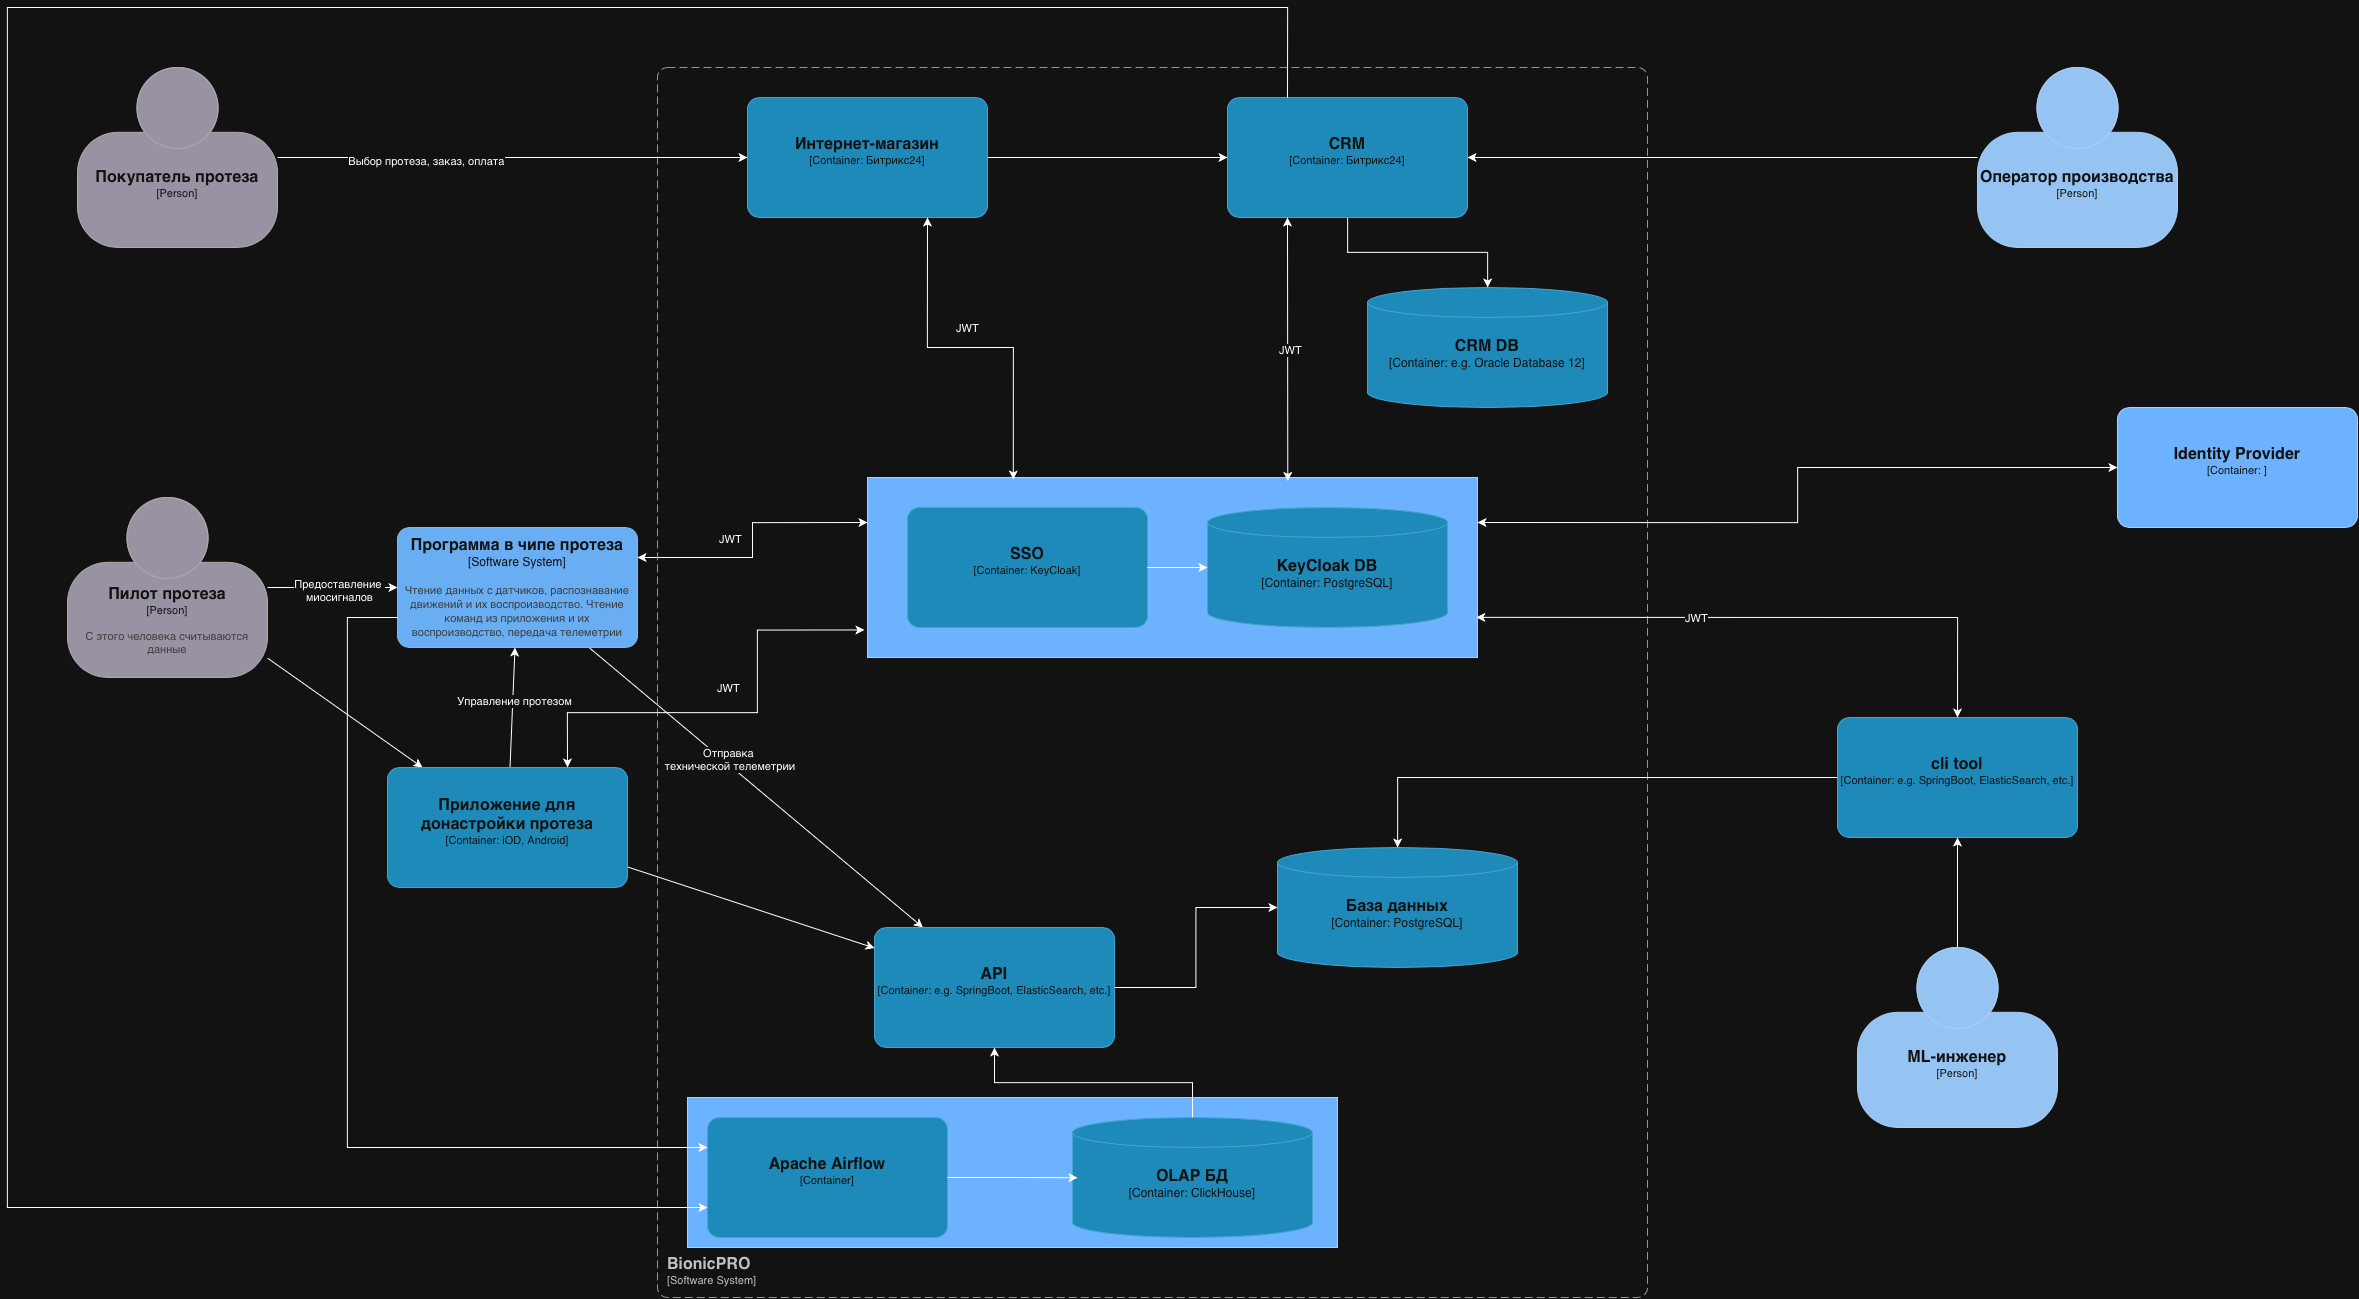
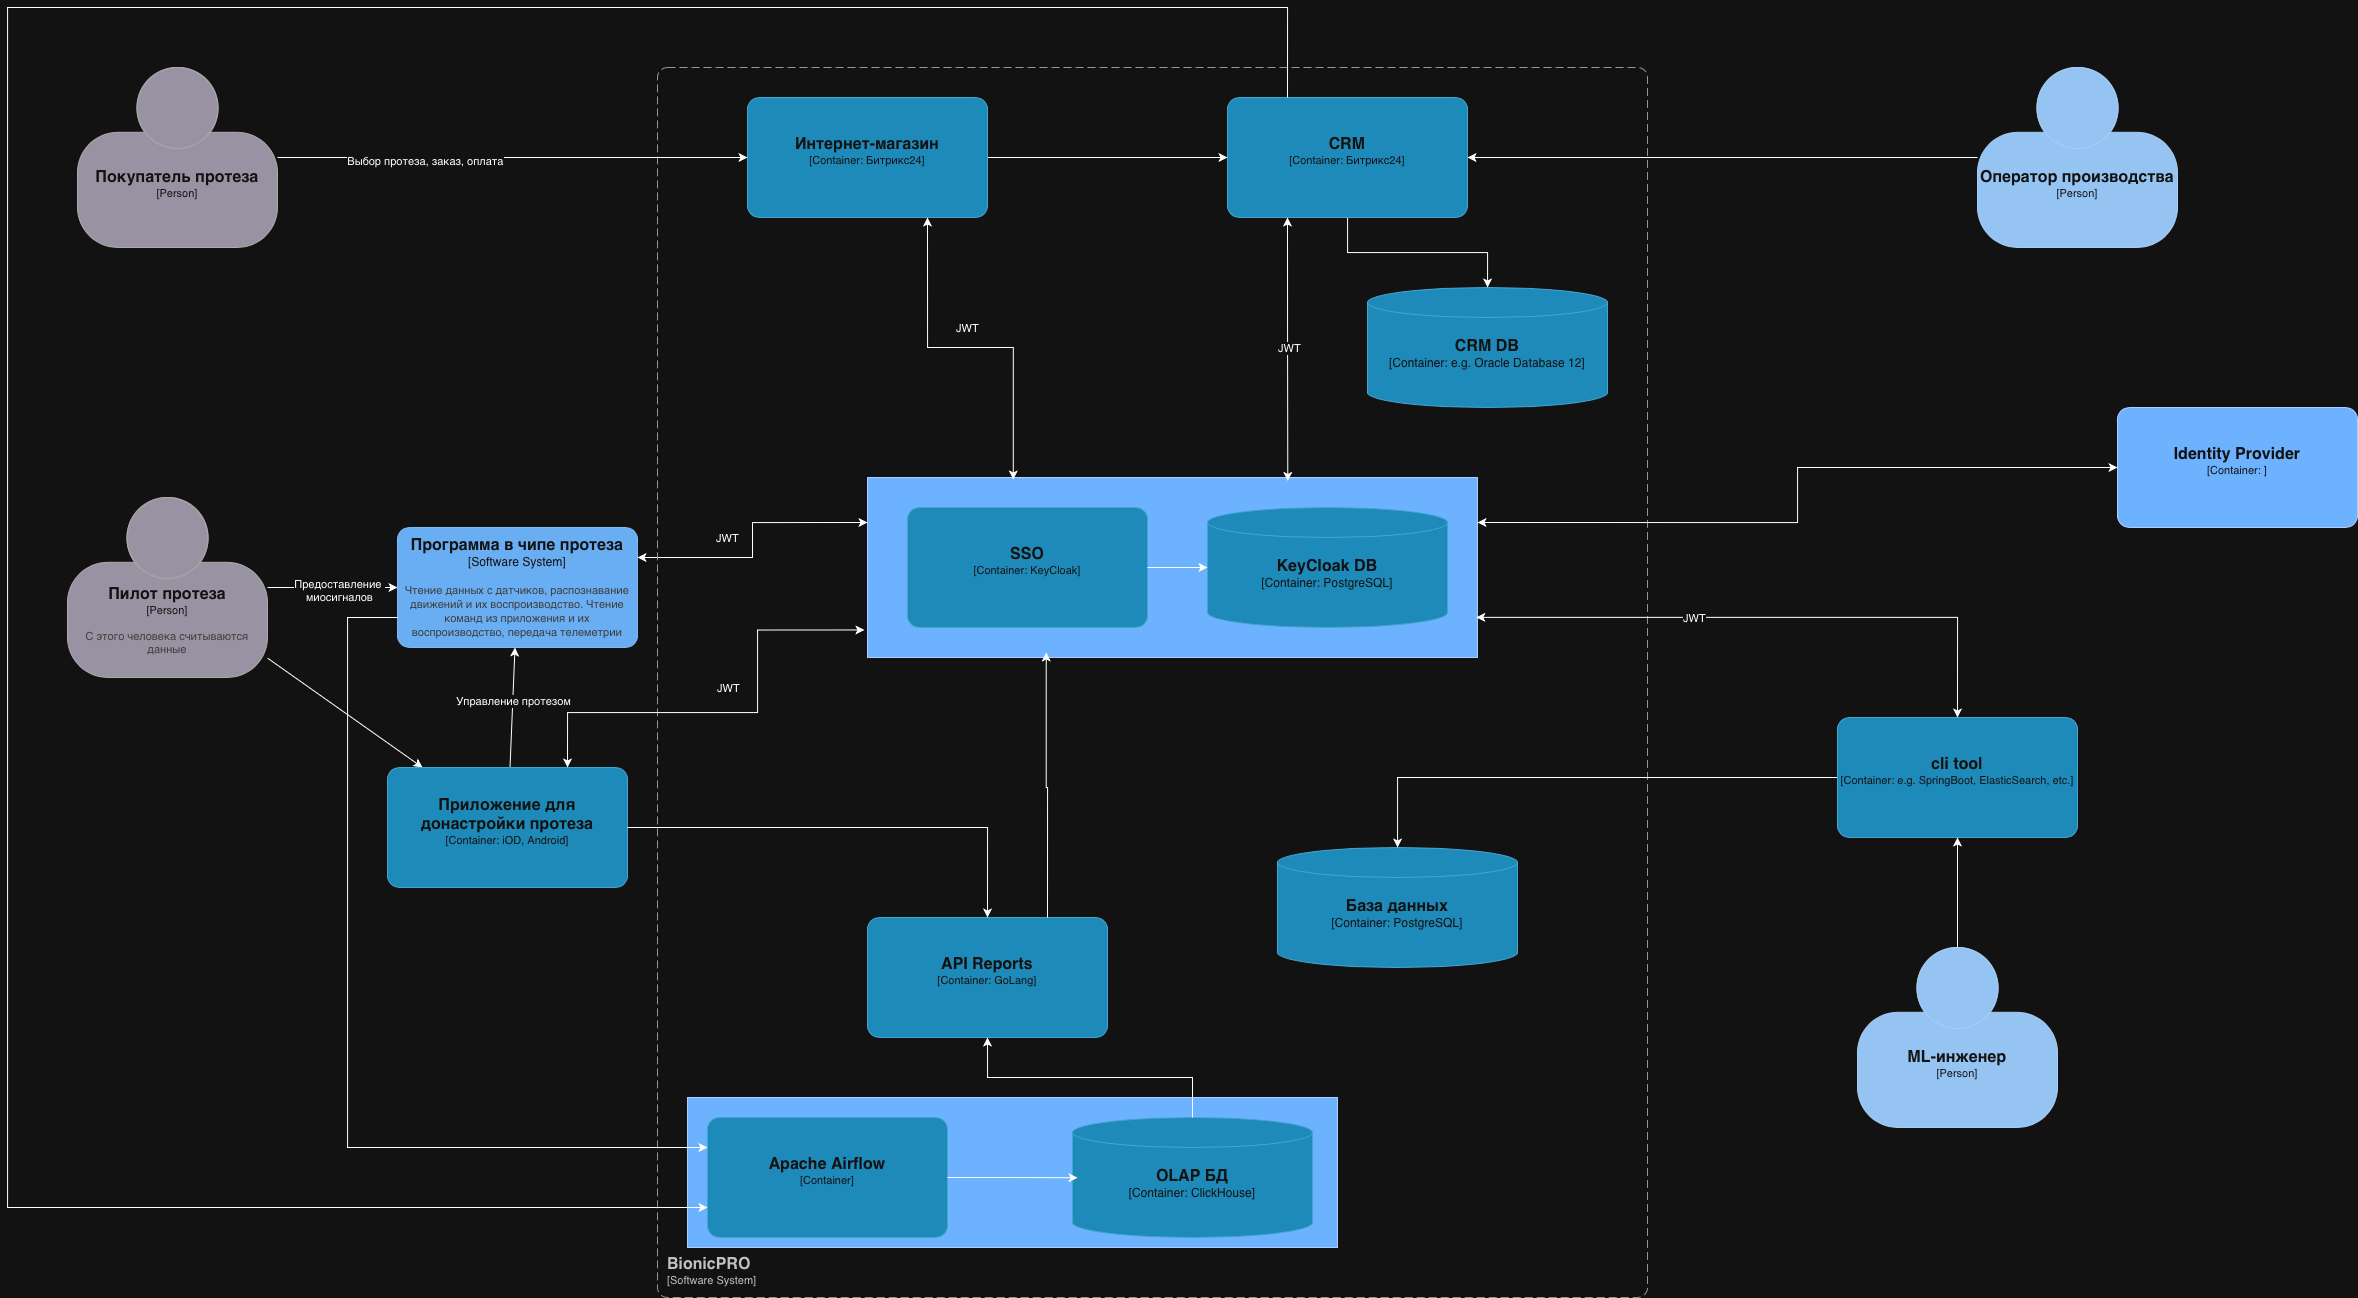
readme

diff --git a/README.md b/README.md
@@ -1,1 +1,26 @@
+Для запуска проекта выполните команду
 
+```bash
+docker-compose up -d
+```
+
+Пользовательский интерфейс будет доступен [тут](http://localhost:3000). Для теста можно использовать:
+
+```
+login: user1
+password: password123
+```
+
+Если видите ошибку получения отчета, то необходимо подождать. Отчеты формируются автоматически один раз в день.
+
+# Задание 1. Повышение безопасности системы
+
+## 1. Предложите архитектурное решение и доработайте диаграмму C4 для управления учётными данными пользователя
+
+![1.png](docs/1.png)
+
+# Задание 2. Разработка сервиса отчётов
+
+## 1. Создать архитектуру решения для подготовки и получения отчётов
+
+![2.png](docs/2.png)
